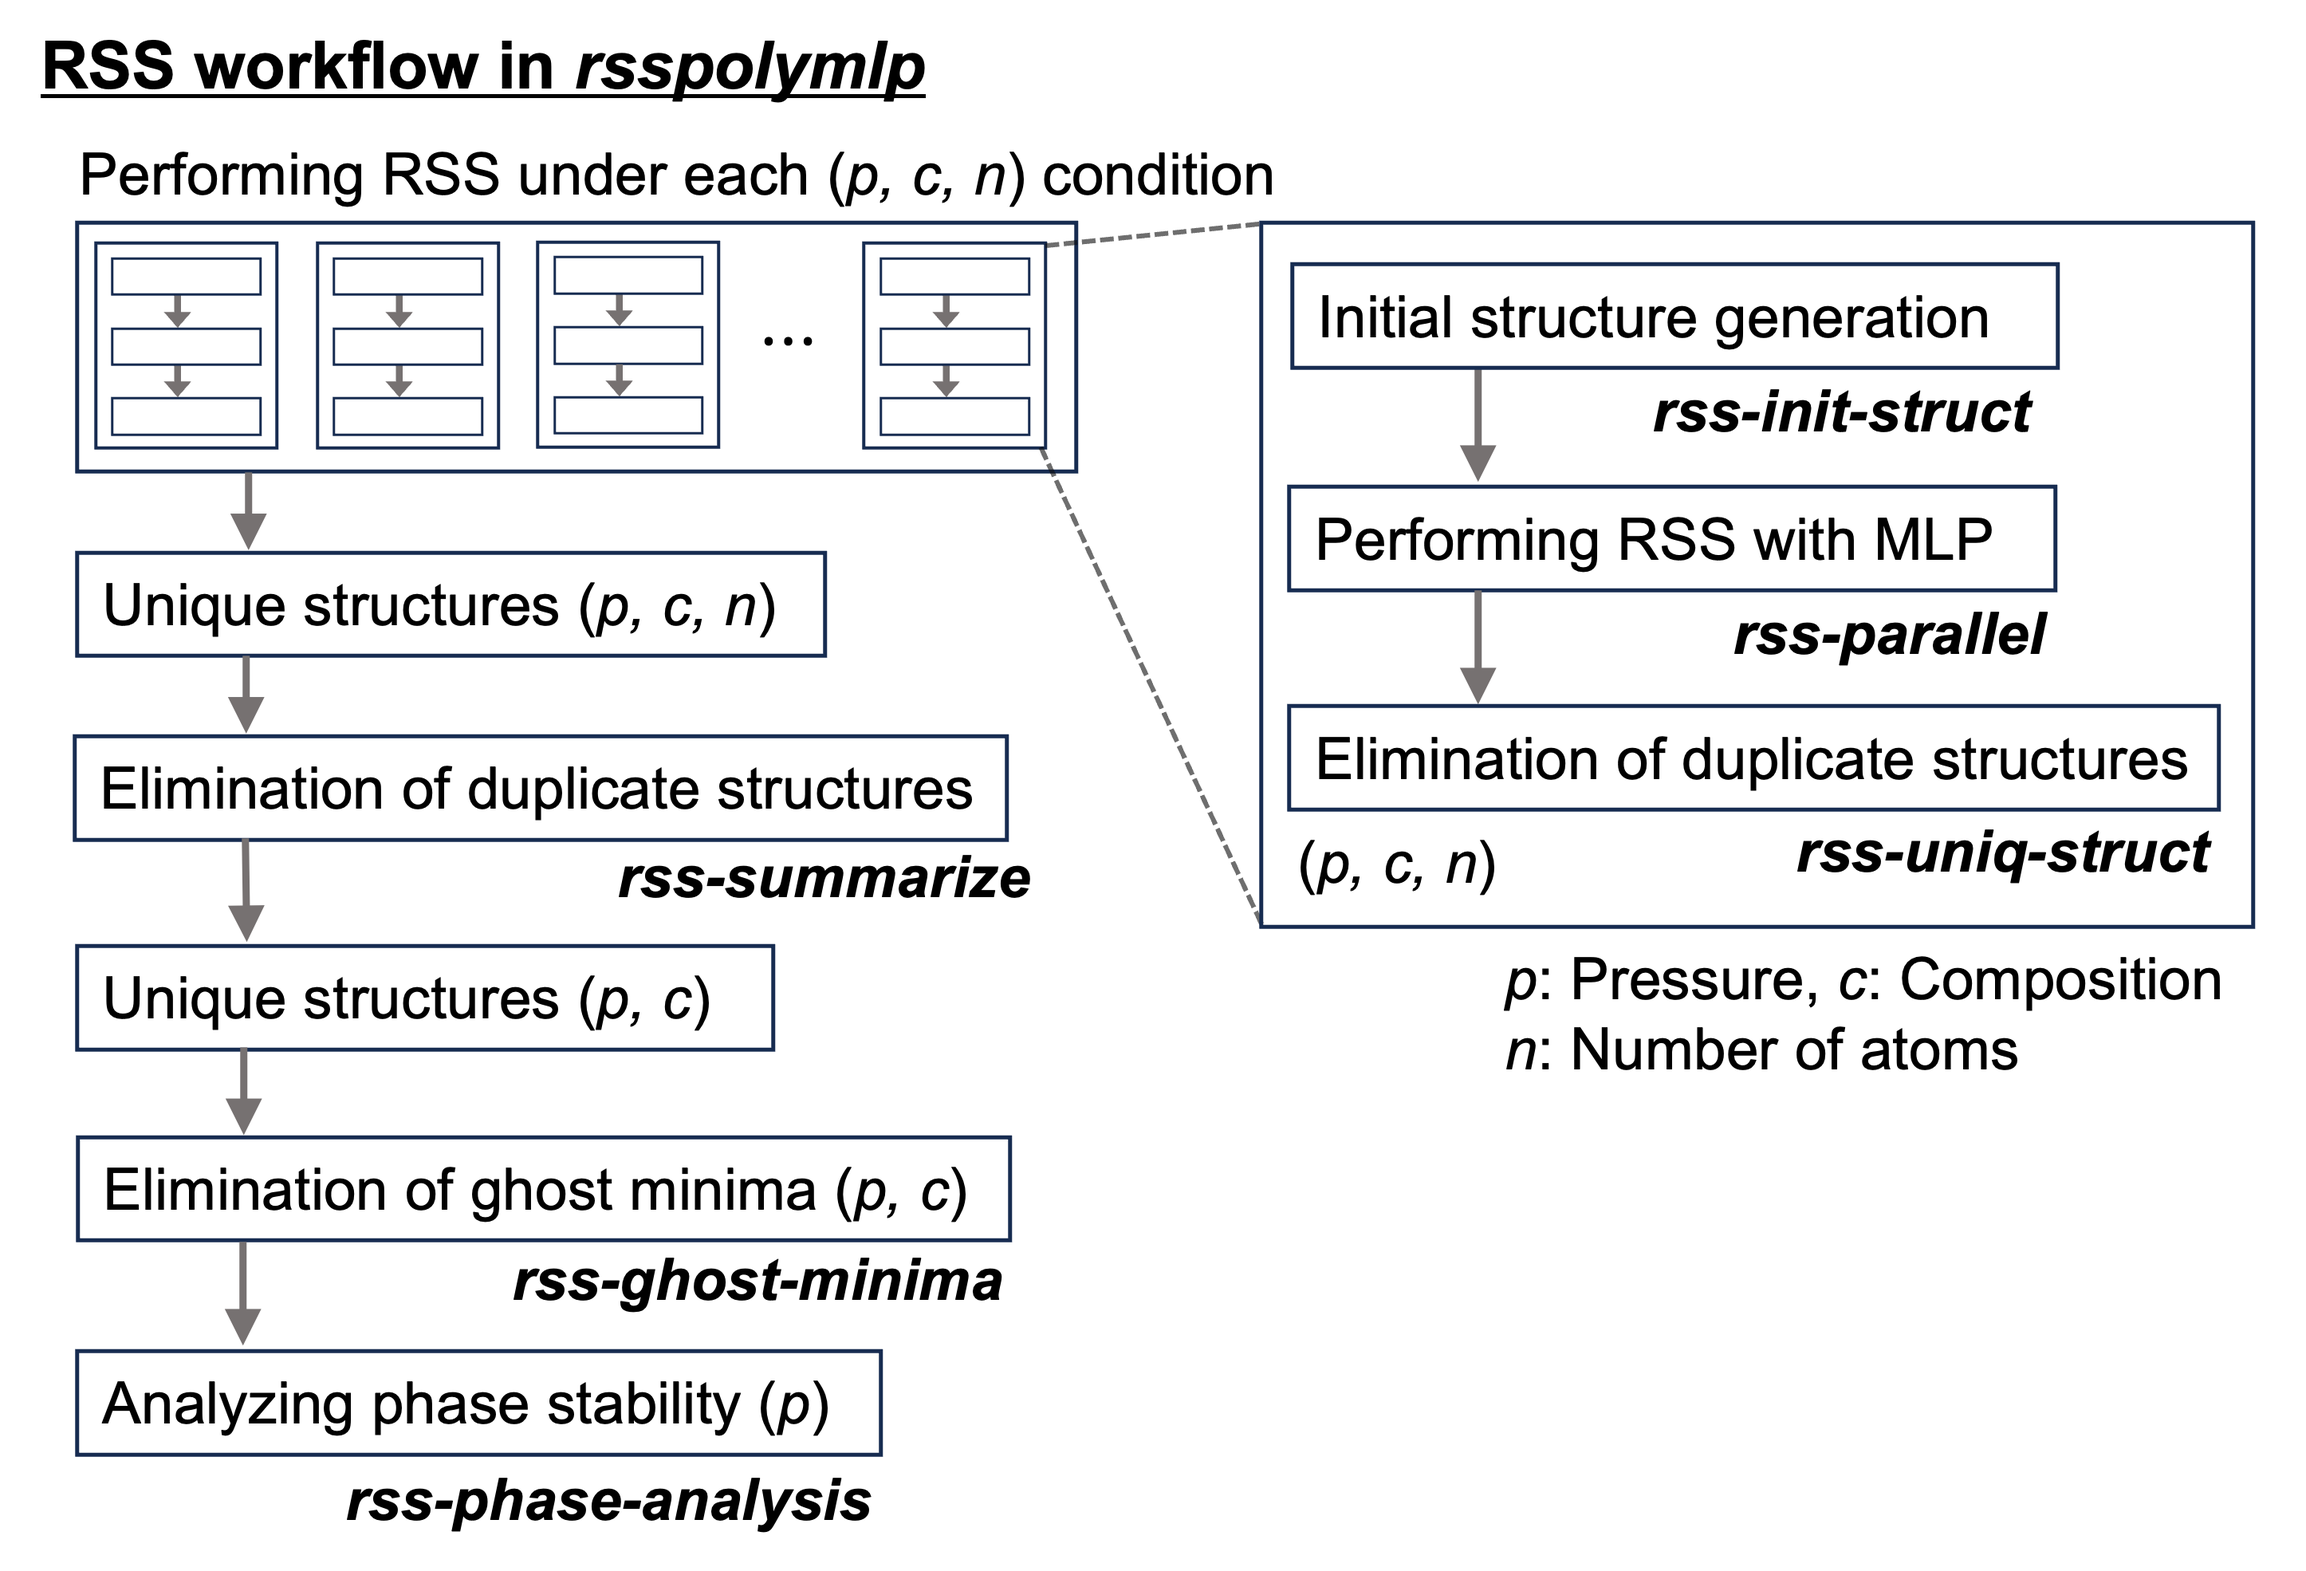
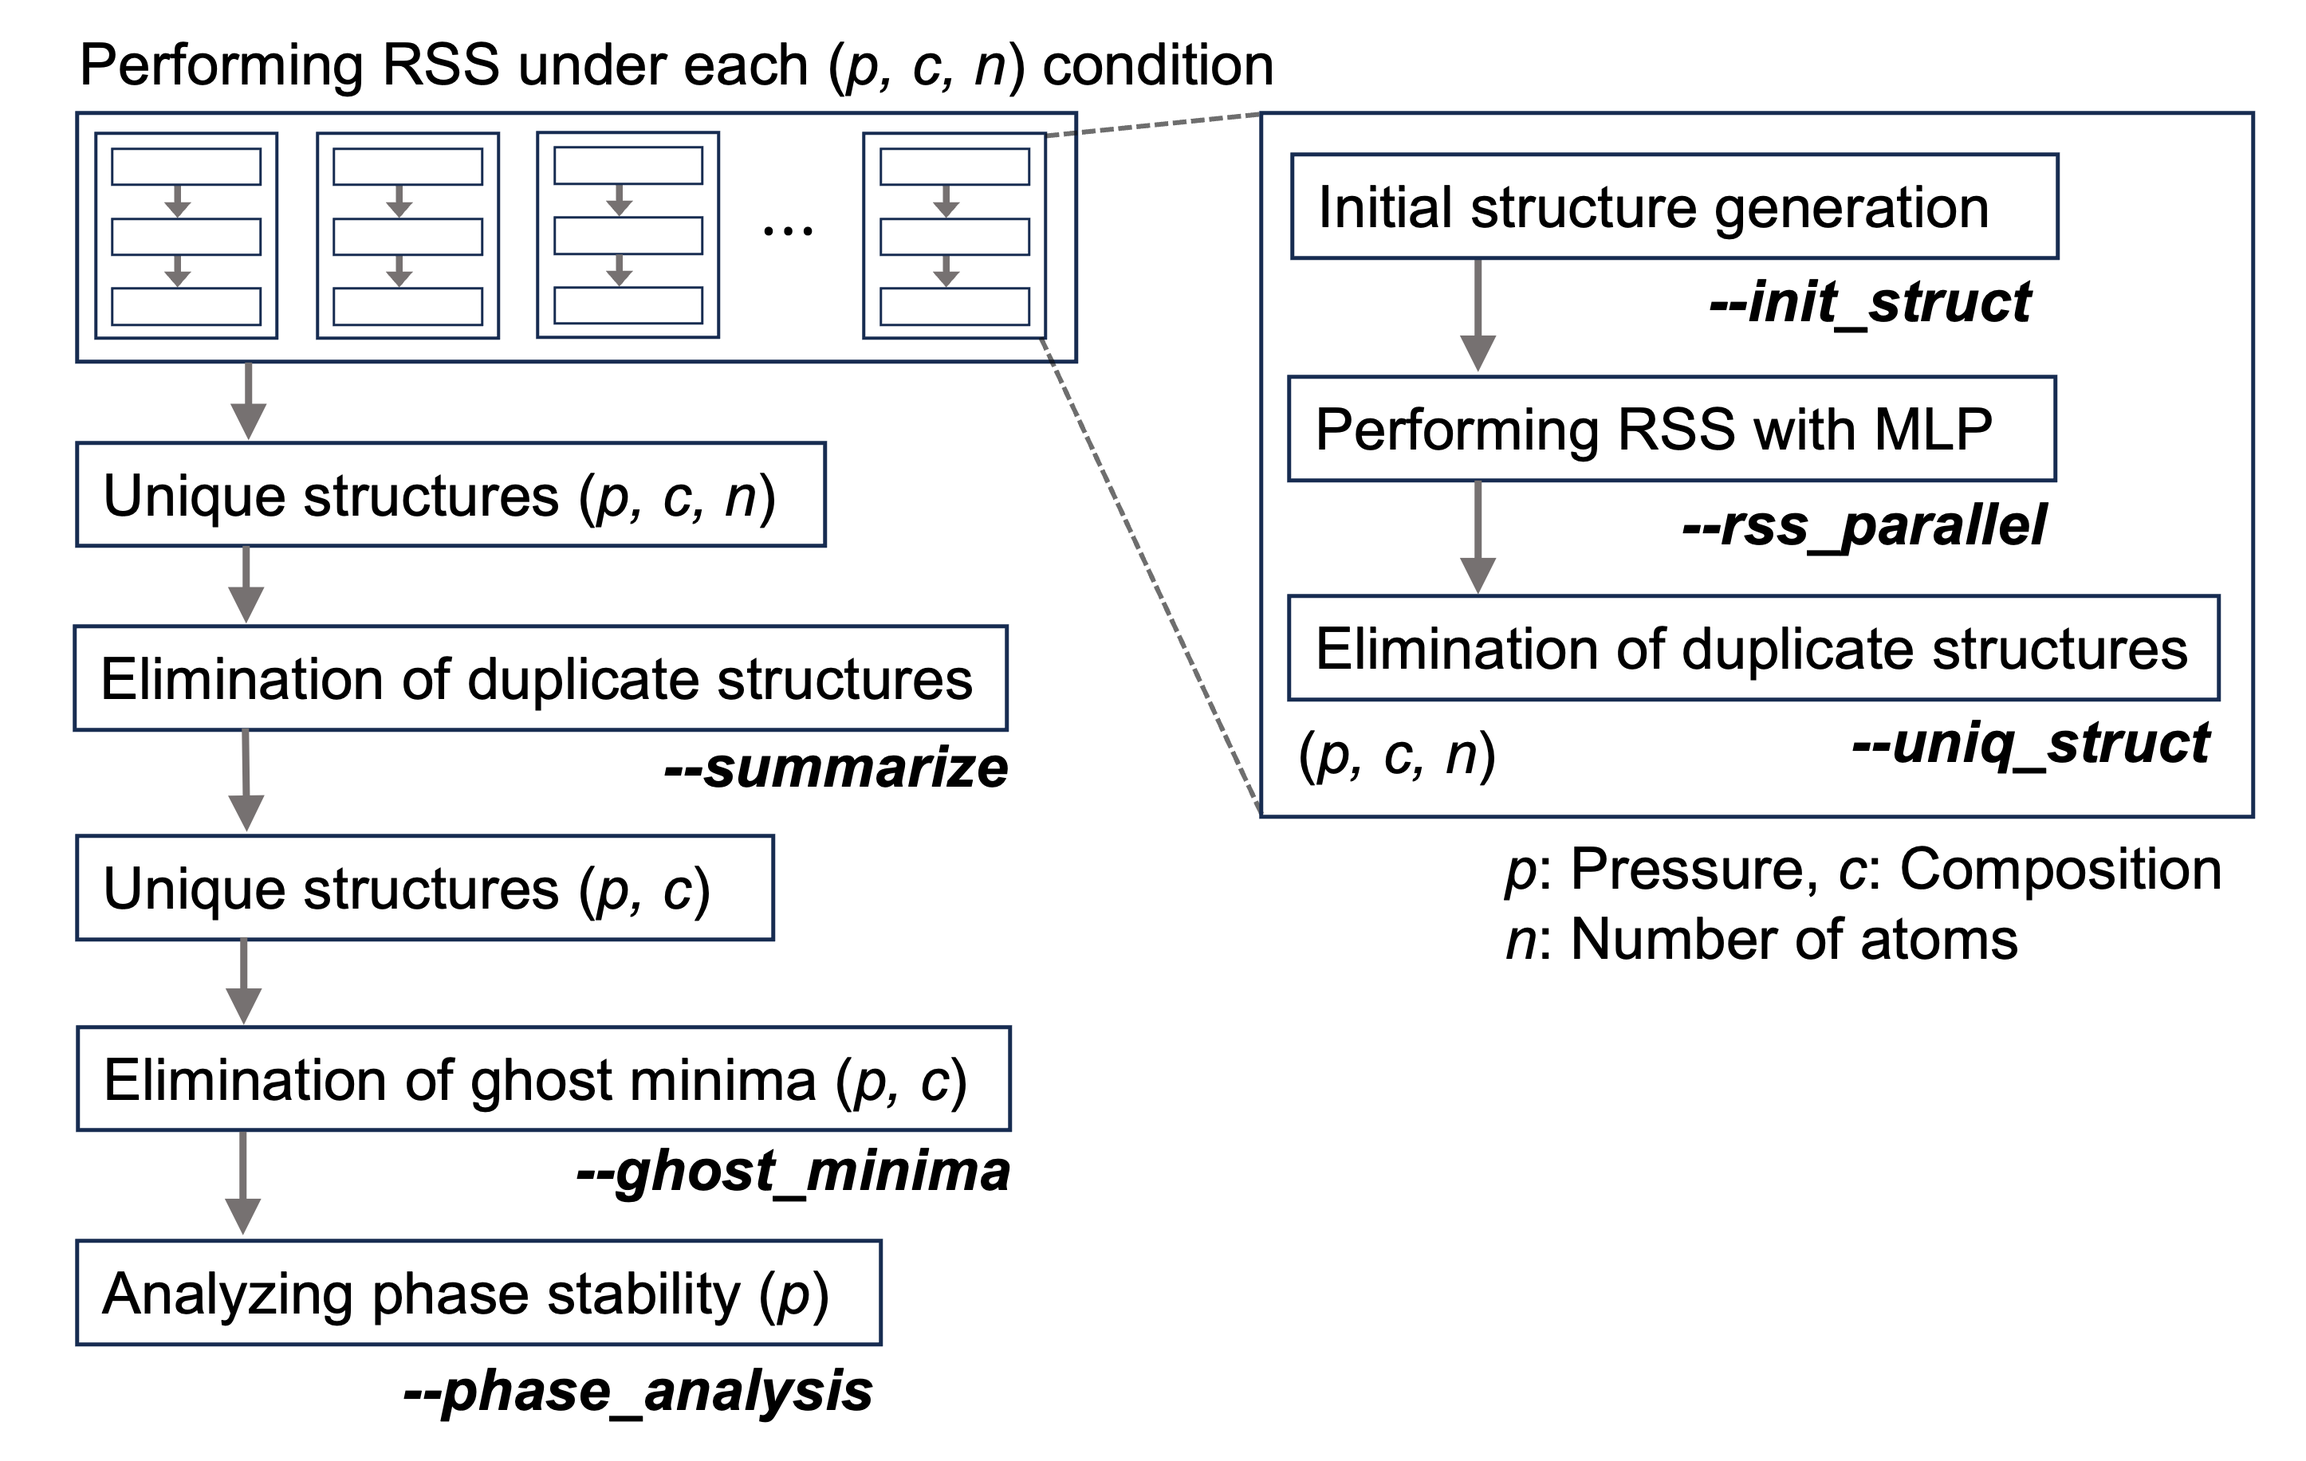
Update readme

Changed region(s): [[0.0, 0.0, 0.9959, 0.9951], [0.4979, 0.4354, 0.529, 0.4975], [0.4668, 0.3421, 0.4979, 0.3732]]

diff --git a/examples/rss/script/rss_summary.py b/examples/rss/script/rss_summary.py
@@ -17,20 +17,20 @@ for pressure in pressure_set:
     os.makedirs(dir_path, exist_ok=True)
     os.chdir(dir_path)
 
-    print("- rss-summarize start")
+    print("- summarize start")
     result_paths = sorted(glob.glob(f"../../../rss_mlp/Al-Cu/{pressure}GPa/*"))
     rss_summarize(
         elements=["Al", "Cu"],
         result_paths=result_paths,
         use_joblib=True,
     )
-    print("- rss-summarize finished")
+    print("- summarize finished")
 
-    print("- rss-ghost-minima")
+    print("- ghost-minima")
     rss_ghost_minima_cands(glob.glob("./json/*"))
     rss_ghost_minima_validate("./ghost_minima_dft")
 
-    print("- rss-phase-analysis")
+    print("- phase-analysis")
     rss_phase_analysis(
         elements=["Al", "Cu"],
         result_paths=glob.glob("./json/*"),

diff --git a/examples/rss/script/rss_mlp.py b/examples/rss/script/rss_mlp.py
@@ -16,7 +16,7 @@ for pressure in pressure_set:
             os.makedirs(dir_path, exist_ok=True)
             os.chdir(dir_path)
 
-            print("- rss-init-struct")
+            print("- init-struct")
             rss_init_struct(
                 elements=["Al", "Cu"],
                 atom_counts=[i, j],
@@ -31,7 +31,7 @@ for pressure in pressure_set:
                 n_opt_str=200,
             )
 
-            print("- rss-uniq-struct")
+            print("- uniq-struct")
             rss_uniq_struct()
 
             os.chdir(base_dir)

diff --git a/README.md b/README.md
@@ -54,78 +54,15 @@ conda install -c conda-forge scikit-learn joblib pypolymlp spglib symfc
 pip install rsspolymlp
 ```
 
-## Workflow
+## How to use rsspolymlp
 
-<img src="docs/workflow.png" alt="workflow" width="70%" />
-
-### The command-line interface of `rsspolymlp`
-
-First, RSS using the polynomial MLP is independently performed for each condition defined by pressure (`p`), composition (`c`), and number of atoms (`n`).
-
-1. Generating initial random structures
-   
-   ```shell
-   rss-init-struct --elements Al Cu --atom_counts 4 4 --num_init_str 2000
-   ```
-
-2. Performing parallel geometry optimization using the polynomial MLP
-   
-   ```shell
-   rss-parallel --pot polymlp.yaml --pressure 0.0 --num_opt_str 1000
-   ```
-
-3. Eliminating duplicate structures
-   
-   This step processes the optimized structures. It includes:
-
-   * Parsing optimization logs, filtering out failed or unconverged cases, and generating detailed computational summaries.
-   * Removing duplicate structures and extracting unique optimized structures.
-
-   ```shell
-   rss-uniq-struct
-   ```
-
-Next, RSS results aggregated for each (`p`, `c`) condition are analyzed.
-
-4. Identifying unique structures across atom numbers `n`
-
-   ```shell
-   rss-summarize --elements Al Cu --result_paths <rss_directory>/*
-   # <rss_directory>: parent directory of RSS runs at the same pressure
-   ```
-
-5. Eliminating ghost minimum structures
-   
-   Identifying and filtering out ghost minimum structures based on nearest-neighbor distance are performed.
-
-   ```shell
-   rss-ghost-minima --result_paths <summary_dir>/json/*
-   rss-ghost-minima --compare_dft --dft_dir <summary_dir>/ghost_minima_dft
-   # <summary_dir>: output directory from rss-summarize, storing RSS results
-   ```
-
-6. Phase stability analysis
-
-   This step computes the relative or formation energies of structures obtained from the RSS and outputs the global minimum structures. It also identifies metastable structures near the convex hull based on a energy threshold (e.g., 30 meV/atom).
-
-   ```shell
-   rss-phase-analysis --elements Al Cu --result_paths <summary_dir>/json/* 
-   --thresholds 10 30 50 --ghost_minima_file <summary_dir>/ghost_minima/ghost_minima_detection.yaml
-   ```
-
-7. (Optional) Plotting RSS results (e.g., `plot-binary`)
-   
-   The energy distribution of structures obtained through this RSS workflow is visualized.
-   ```shell
-   plot-binary --elements Al Cu --threshold 30
-   ```
-
-## Additional information
-
- - [Python API (RSS)](docs/api_rss.md)
+ - [Workflow of RSS with polynomial MLPs](docs/rsspolymlp.md)
    - Initial structure generation
    - Global RSS with polynomial MLPs
    - Unique structure identification and RSS summary generation
+   - Ghost minimum structure elimination
+   - Phase stability analysis
+ - [Python API (RSS)](docs/api_rsspolymlp.md)
  - [VASP calculation utility](src/rsspolymlp/utils/vasp_util/readme.md)
    - Single-point calculation
    - Local geometry optimizaion

diff --git a/docs/rsspolymlp.md b/docs/rsspolymlp.md
@@ -1,0 +1,66 @@
+# Workflow of RSS with polynomial MLPs
+
+### Overview
+<img src="./workflow.png" alt="workflow" width="70%" />
+
+### The command-line interface of `rsspolymlp`
+
+First, RSS using the polynomial MLP is independently performed for each condition defined by pressure (`p`), composition (`c`), and number of atoms (`n`).
+
+1. Generating initial random structures
+   
+   ```shell
+   rsspolymlp --init_struct --elements Al Cu --atom_counts 4 4 --num_init_str 2000
+   ```
+
+2. Performing parallel geometry optimization using the polynomial MLP
+   
+   ```shell
+   rsspolymlp --rss_parallel --pot polymlp.yaml --pressure 0.0 --num_opt_str 1000
+   ```
+
+3. Eliminating duplicate structures
+   
+   This step processes the optimized structures. It includes:
+
+   * Parsing optimization logs, filtering out failed or unconverged cases, and generating detailed computational summaries.
+   * Removing duplicate structures and extracting unique optimized structures.
+
+   ```shell
+   rsspolymlp --uniq_struct
+   ```
+
+Next, RSS results aggregated for each (`p`, `c`) condition are analyzed.
+
+4. Identifying unique structures across atom numbers `n`
+
+   ```shell
+   rsspolymlp --summarize --elements Al Cu --paths <rss_directory>/*
+   # <rss_directory>: parent directory of RSS runs at the same pressure
+   ```
+
+5. Eliminating ghost minimum structures
+   
+   Identifying and filtering out ghost minimum structures based on nearest-neighbor distance are performed.
+
+   ```shell
+   rsspolymlp --ghost_minima --paths <summary_dir>/json/*
+   rsspolymlp --ghost_minima --compare_dft --paths <summary_dir>/ghost_minima_dft
+   # <summary_dir>: output directory from rss-summarize, storing RSS results
+   ```
+
+6. Phase stability analysis
+
+   This step computes the relative or formation energies of structures obtained from the RSS and outputs the global minimum structures. It also identifies metastable structures near the convex hull based on a energy threshold (e.g., 30 meV/atom).
+
+   ```shell
+   rsspolymlp --phase_analysis --elements Al Cu --paths <summary_dir>/json/* 
+   --thresholds 10 30 50 --ghost_minima_file <summary_dir>/ghost_minima/ghost_minima_detection.yaml
+   ```
+
+7. (Optional) Plotting RSS results (e.g., `rsspolymlp-plot --binary`)
+   
+   The energy distribution of structures obtained through this RSS workflow is visualized.
+   ```shell
+   rsspolymlp-plot --binary --elements Al Cu --threshold 30
+   ```
